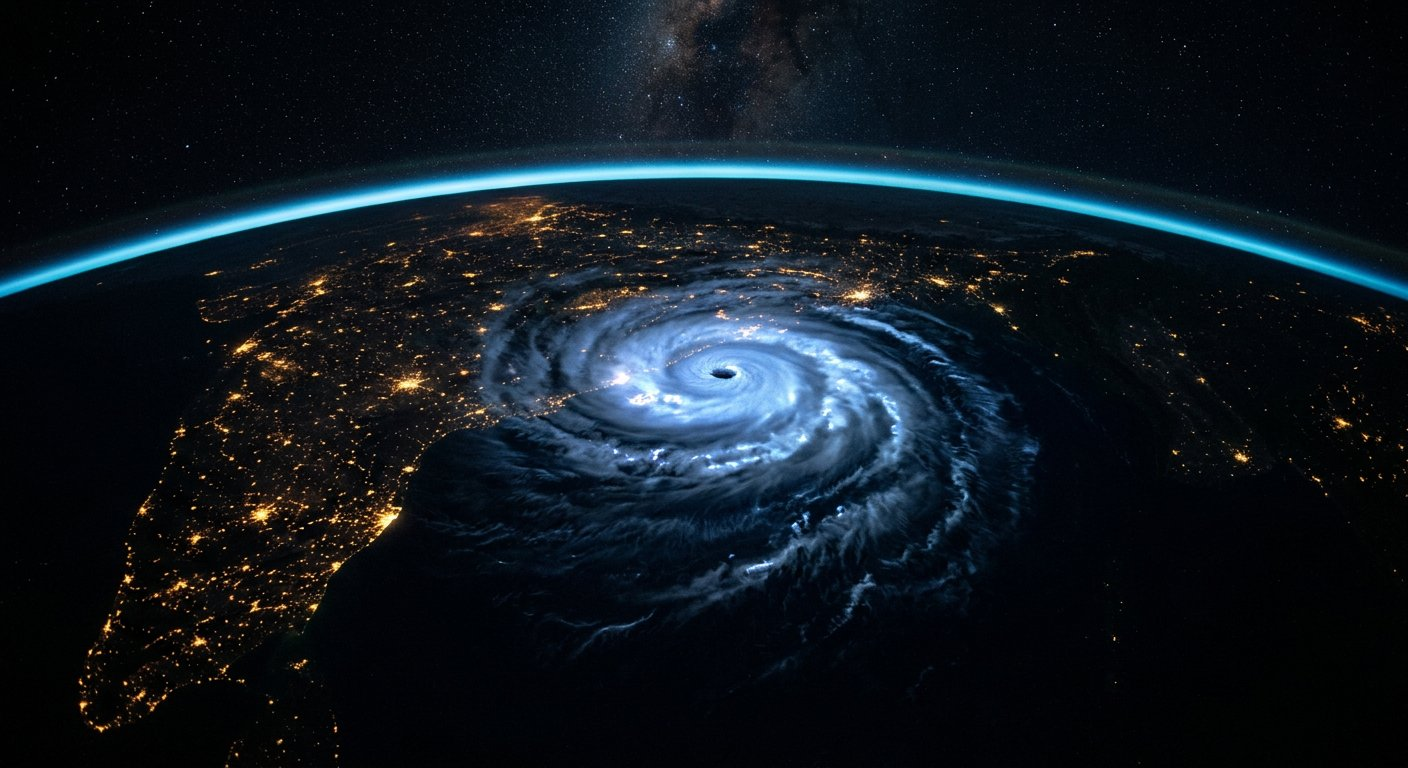
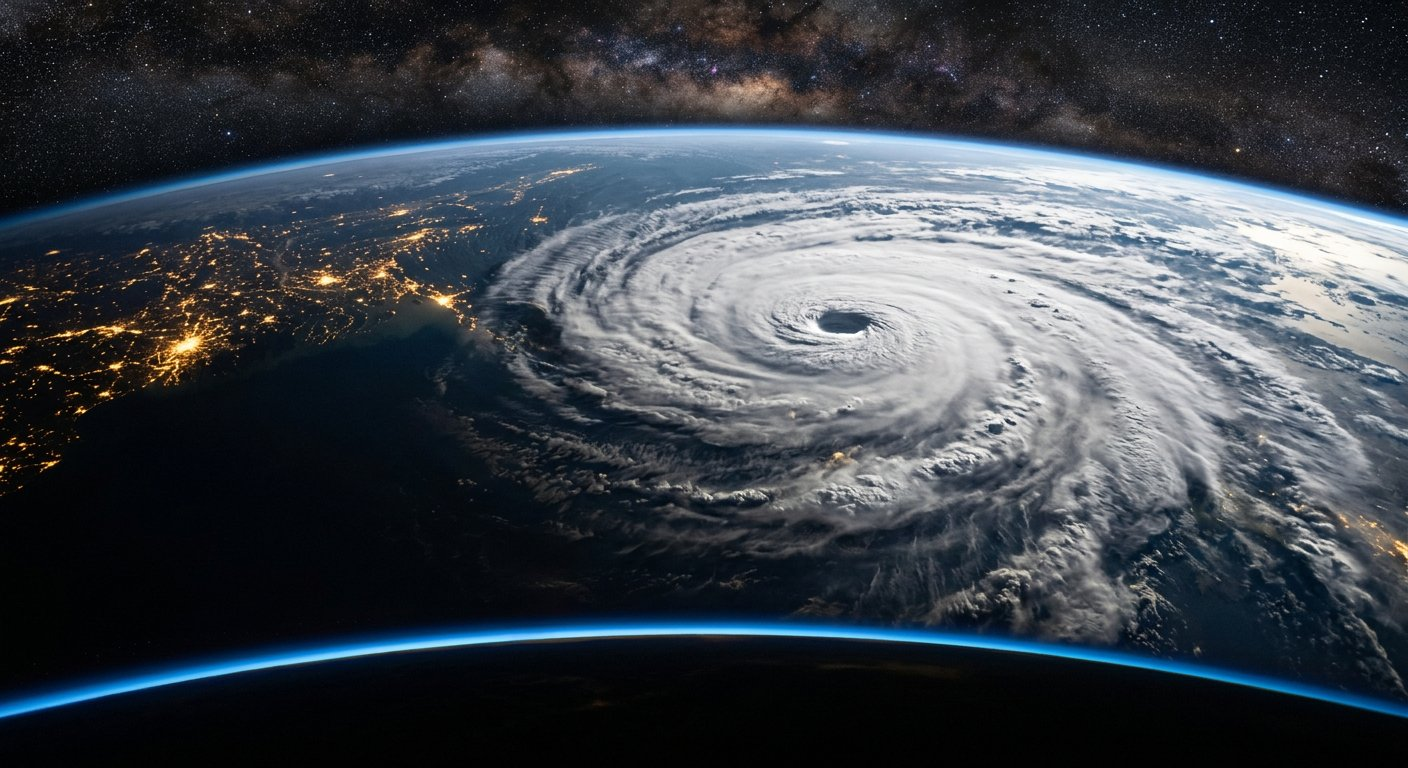
feat(hero): regenerated hero carousel imagery; role-correct status chips
Hero carousel: all twelve frames regenerated as one cinematic series —
four 16:9 landscape photographs (night orbital delta, monsoon storm
front, cyclone from orbit, flooded fields at blue hour) plus AI-
recomposed 9:16 portrait variants for phones, downscaled for 1x slots.
Filenames and the CSS custom-property wiring are unchanged.

Contrast: AlertLevelBadge pills now name the ramp by role (50 surface,
300 border, 700 ink) instead of hand-picked hex + dark: twins. The old
pairs read Tailwind's stock palette, so in dark mode rose-950/yellow-950
resolved to the bright tints as grounds and the level words sat on
their own hue under 2:1 — exactly the 'Published now' strip failure.
Same fix for the AdvisoryPanel error box, Cached and urgency chips, the
DistrictDetailPanel cyan chip and the WeatherBadge sky chip; the amber
pairs already resolved correctly through dark.css and stay. The
phase-D contract now asserts the role tokens.

The ai-image-generation skill was executed as instructed; its belt CLI
cannot install in this sandbox (binary download blocked), so the images
were produced with the workspace's built-in generator instead. Skill
installer artifacts (skills/, .agents/, .claude/, agent/, data/skills/)
are ignored, not committed.

1808 tests pass; token, prose, claims, functions, important and design
gates green; production build green.

diff --git a/frontend/src/components/AdvisoryPanel.tsx b/frontend/src/components/AdvisoryPanel.tsx
@@ -94,7 +94,7 @@ const AdvisoryPanel: React.FC<AdvisoryPanelProps> = ({
 
   if (error) {
     return (
-      <div className="w-full bg-rose-50 dark:bg-rose-950/20 rounded-lg sm:rounded-xl border border-rose-200 dark:border-rose-900/50 shadow-sm sm:shadow-md p-3 sm:p-4 mt-4 sm:mt-6 text-rose-950 dark:text-rose-100 text-xs sm:text-sm space-y-2">
+      <div className="w-full bg-rose-50 rounded-lg sm:rounded-xl border border-rose-300 shadow-sm sm:shadow-md p-3 sm:p-4 mt-4 sm:mt-6 text-rose-900 text-xs sm:text-sm space-y-2">
         <p className="font-bold text-sm sm:text-base">Error generating AI Advisory</p>
         <p className="text-xs leading-relaxed font-normal">{error}</p>
       </div>
@@ -115,7 +115,7 @@ const AdvisoryPanel: React.FC<AdvisoryPanelProps> = ({
               HA Engine
             </span>
             {advisory.cached && (
-              <span className="px-2 sm:px-3 py-0.5 sm:py-1 rounded-full text-xs sm:text-xs font-mono font-semibold bg-emerald-50 dark:bg-emerald-950/30 text-emerald-950 dark:text-emerald-100 border border-emerald-200 dark:border-emerald-800/50">
+              <span className="px-2 sm:px-3 py-0.5 sm:py-1 rounded-full text-xs sm:text-xs font-mono font-semibold bg-emerald-50 text-emerald-700 border border-emerald-300">
                 Cached
               </span>
             )}
@@ -130,8 +130,8 @@ const AdvisoryPanel: React.FC<AdvisoryPanelProps> = ({
         <div className="flex items-center gap-1.5 sm:gap-2 shrink-0">
           <span className={`px-2.5 sm:px-4 py-1 sm:py-1.5 rounded-full text-xs sm:text-sm font-mono font-bold border whitespace-nowrap ${
             (advisory.urgency_tier === 'EMERGENCY' || advisory.urgency_level === 'EMERGENCY' || advisory.urgency_tier === 'WARNING' || advisory.urgency_level === 'WARNING')
-              ? 'bg-rose-100 dark:bg-rose-950/40 text-rose-950 dark:text-rose-100 border-rose-300 dark:border-rose-800/50'
-              : 'bg-amber-100 dark:bg-amber-950/40 text-amber-950 dark:text-amber-100 border-amber-300 dark:border-amber-800/50'
+              ? 'bg-rose-100 text-rose-700 border-rose-300'
+              : 'bg-amber-100 text-amber-700 border-amber-300'
           }`}>
             {advisory.urgency_tier || advisory.urgency_level || 'WATCH'}
           </span>

diff --git a/__tests__/phaseDHardening.test.js b/__tests__/phaseDHardening.test.js
@@ -66,11 +66,15 @@ describe('TASK-012: Accessibility + Performance Pass (TRD §7.5, §9.1, §13)', 
   test('AlertLevelBadge defines WCAG 2.2 AA compliant contrast colors and role="status"', () => {
     const badgeCode = fs.readFileSync(path.resolve(process.cwd(), 'frontend', 'src', 'components', 'alerts', 'AlertLevelBadge.tsx'), 'utf8');
     assert.ok(badgeCode.includes('role="status"'), 'AlertLevelBadge must render role="status"');
-    // High-contrast tokens
-    assert.ok(badgeCode.includes('#15803D') || badgeCode.includes('text-[#15803D]'), 'NORMAL tier uses accessible dark green');
-    assert.ok(badgeCode.includes('#854D0E') || badgeCode.includes('text-[#854D0E]'), 'WATCH tier uses accessible dark yellow');
-    assert.ok(badgeCode.includes('#9A3412') || badgeCode.includes('text-[#9A3412]'), 'WARNING tier uses accessible dark amber');
-    assert.ok(badgeCode.includes('#991B1B') || badgeCode.includes('text-[#991B1B]'), 'SEVERE tier uses accessible dark crimson');
+    // High-contrast tokens. The pills name the ramp by ROLE (50 surface / 300
+    // border / 700 ink) so index.css and styles/dark.css resolve each tier to an
+    // AA pair in BOTH themes — the earlier hand-picked hex + dark: twins read
+    // Tailwind's stock palette and collapsed to tone-on-tone in dark mode
+    // (e.g. `rose-950` resolved to the bright crimson tint as a ground).
+    assert.ok(badgeCode.includes('text-emerald-700'), 'NORMAL tier uses the role ink (emerald-700, AA on its 50 surface in both themes)');
+    assert.ok(badgeCode.includes('text-yellow-700'), 'WATCH tier uses the role ink (yellow-700, AA on its 50 surface in both themes)');
+    assert.ok(badgeCode.includes('text-amber-700'), 'WARNING tier uses the role ink (amber-700, AA on its 50 surface in both themes)');
+    assert.ok(badgeCode.includes('text-rose-700'), 'SEVERE tier uses the role ink (rose-700, AA on its 50 surface in both themes)');
   });
 
   test('DistrictDetailPanel includes accessible dialog/region and ARIA labeling', () => {

diff --git a/frontend/src/components/alerts/AlertLevelBadge.tsx b/frontend/src/components/alerts/AlertLevelBadge.tsx
@@ -35,31 +35,31 @@ export const ADVISORY_TIER_COLOURS: Record<string, string> = {
 
 const LEVEL_TOKENS: Record<string, LevelTokens> = {
   NORMAL: {
-    pill: 'bg-emerald-50 text-[#15803D] border-[#16A34A]/40 dark:bg-emerald-950/60 dark:text-emerald-300 dark:border-emerald-700',
+    pill: 'bg-emerald-50 text-emerald-700 border-emerald-300',
     solid: '#16A34A',
     icon: 'check_circle',
     label: 'Normal',
   },
   NO_ALERT: {
-    pill: 'bg-emerald-50 text-[#15803D] border-[#16A34A]/40 dark:bg-emerald-950/60 dark:text-emerald-300 dark:border-emerald-700',
+    pill: 'bg-emerald-50 text-emerald-700 border-emerald-300',
     solid: '#16A34A',
     icon: 'check_circle',
     label: 'No Alert',
   },
   WATCH: {
-    pill: 'bg-yellow-50 text-[#854D0E] border-[#CA8A04]/40 dark:bg-yellow-950/60 dark:text-yellow-300 dark:border-yellow-700',
+    pill: 'bg-yellow-50 text-yellow-700 border-yellow-300',
     solid: '#CA8A04',
     icon: 'visibility',
     label: 'Watch',
   },
   WARNING: {
-    pill: 'bg-amber-50 text-[#9A3412] border-[#D97706]/40 dark:bg-amber-950/60 dark:text-amber-300 dark:border-amber-700',
+    pill: 'bg-amber-50 text-amber-700 border-amber-300',
     solid: '#D97706',
     icon: 'shield_alert',
     label: 'Warning',
   },
   SEVERE: {
-    pill: 'bg-rose-50 text-[#991B1B] border-[#DC2626]/40 dark:bg-rose-950/60 dark:text-rose-300 dark:border-rose-700',
+    pill: 'bg-rose-50 text-rose-700 border-rose-300',
     solid: '#DC2626',
     icon: 'alert_triangle',
     label: 'Severe',

diff --git a/frontend/src/components/DistrictDetailPanel.tsx b/frontend/src/components/DistrictDetailPanel.tsx
@@ -131,7 +131,7 @@ export const DistrictDetailPanel: React.FC<DistrictDetailPanelProps> = ({
           {/* 3. Physics Override Transparency Badge (TASK-006) */}
           {isPhysicsOverridden && (
             <div
-              className="inline-flex items-center gap-1 sm:gap-1.5 px-1.5 sm:px-2.5 py-0.5 sm:py-1 rounded-full bg-cyan-50 dark:bg-cyan-950/60 border border-cyan-300 dark:border-cyan-800 text-cyan-800 dark:text-cyan-300 text-xs font-semibold shadow-xs whitespace-nowrap"
+              className="inline-flex items-center gap-1 sm:gap-1.5 px-1.5 sm:px-2.5 py-0.5 sm:py-1 rounded-full bg-cyan-50 border border-cyan-300 text-cyan-800 text-xs font-semibold shadow-xs whitespace-nowrap"
               title="Physical constraints overrode neural predictions."
               data-testid="physics-override-badge"
             >

diff --git a/frontend/src/components/WeatherBadge.tsx b/frontend/src/components/WeatherBadge.tsx
@@ -60,7 +60,7 @@ export const WeatherBadge: React.FC<WeatherBadgeProps> = ({
 
   return (
     <span
-      className={`${base} bg-sky-50 text-carbon-70 dark:bg-sky-900/30 dark:text-sky-100`}
+      className={`${base} bg-sky-50 text-sky-800`}
       onClick={onClick}
       role={onClick ? 'button' : undefined}
     >
